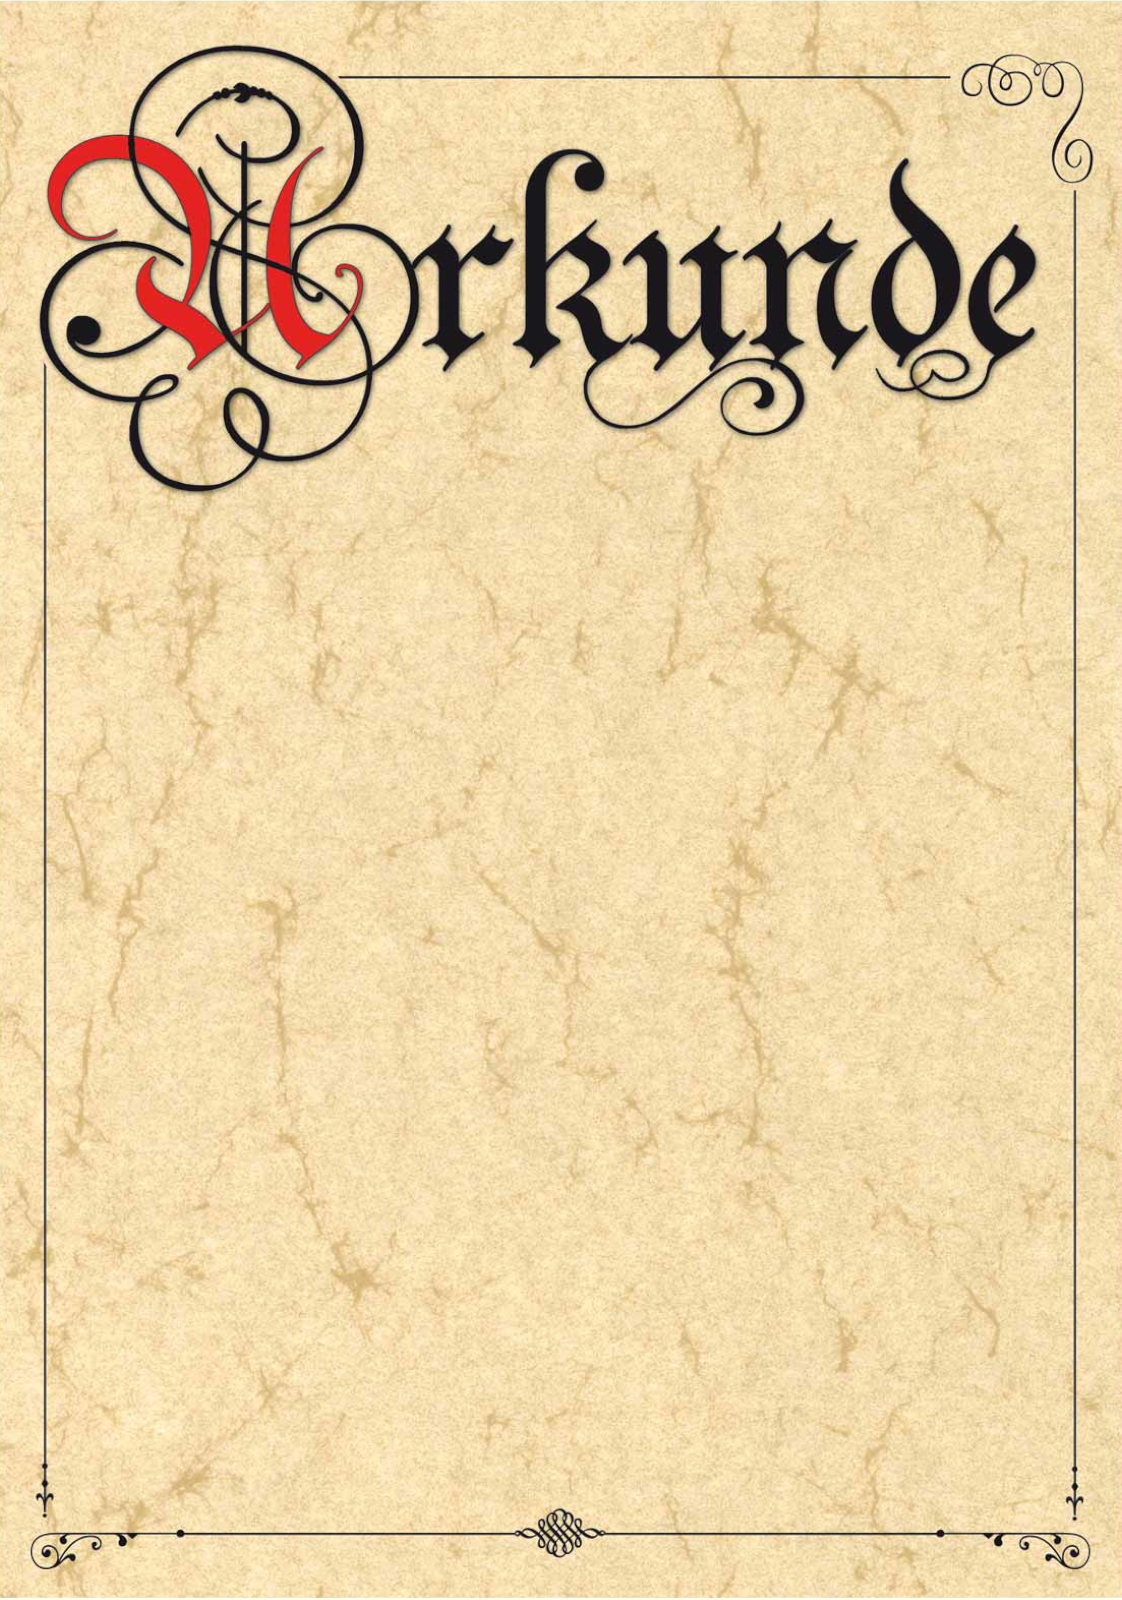
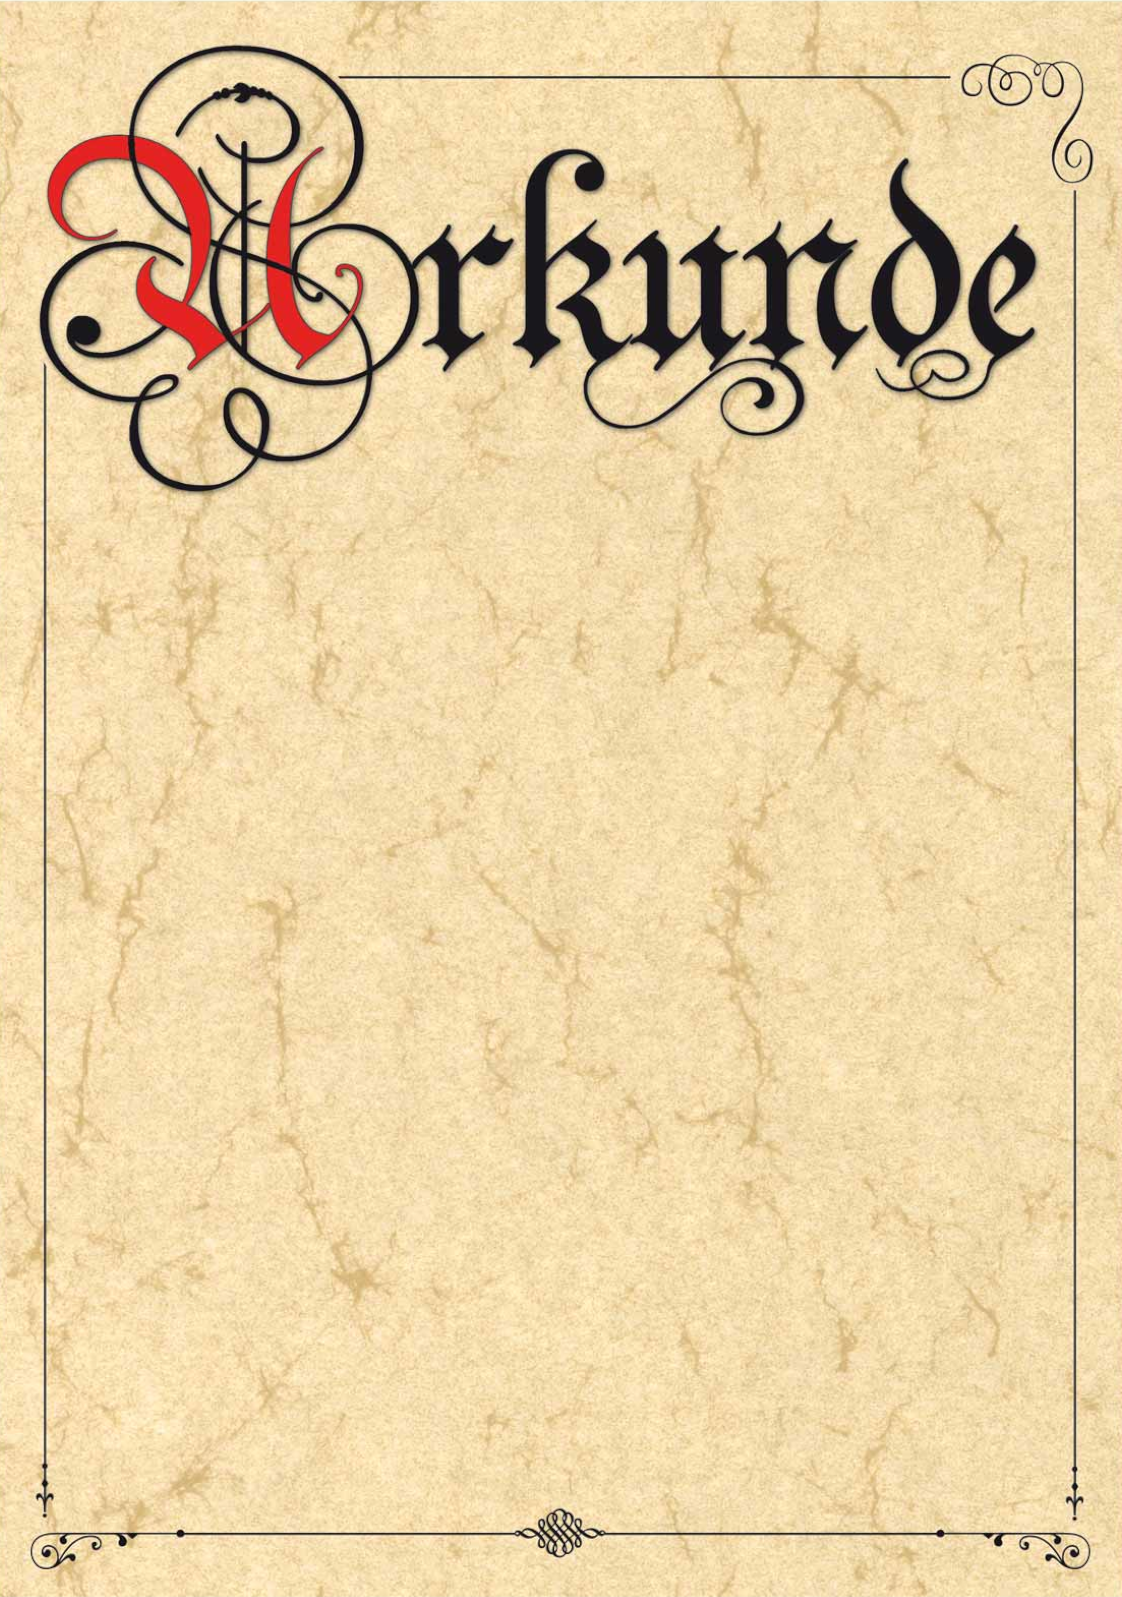
up

diff --git a/pdf_7/src/main/java/pdf.java b/pdf_7/src/main/java/pdf.java
@@ -31,7 +31,7 @@ public class pdf {
 
         //Background
         ImageData bgdata = ImageDataFactory.create("bg.png");
-        Image bg = new Image(bgdata).setFixedPosition(0, 0).setHeight(860).setWidth(600);
+        Image bg = new Image(bgdata).setFixedPosition(0, 0).setHeight(848).setWidth(595);
         doc.add(bg);
 
 
@@ -73,7 +73,7 @@ public class pdf {
         doc.add(new Paragraph("GMBH Examplefirma"));
         doc.add(new Paragraph("Geschäftsführer: Name A. Sutta"));
         doc.add(new Paragraph("Bspstraße 43h"));
-        doc.add(new Paragraph("12345 Stadt"));
+        doc.add(new Paragraph("12345 EineStadt"));
         doc.add(new Paragraph("Telefonnummer: 00000000"));
         doc.add(new Paragraph("Webauftritt: www.example.de"));
         doc.add(new Paragraph("Email: example.gmail.de"));
